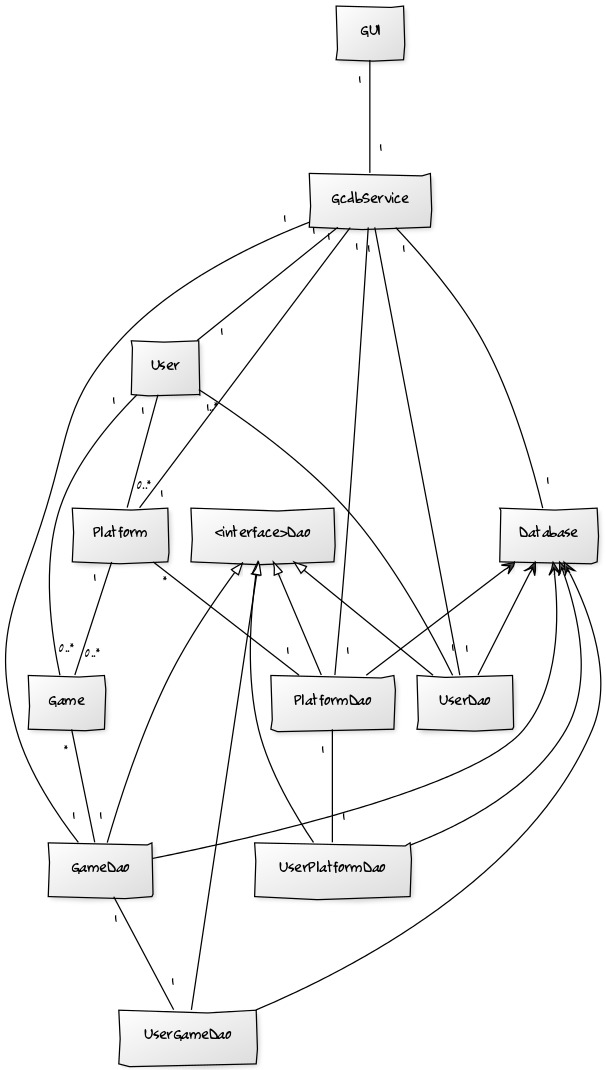
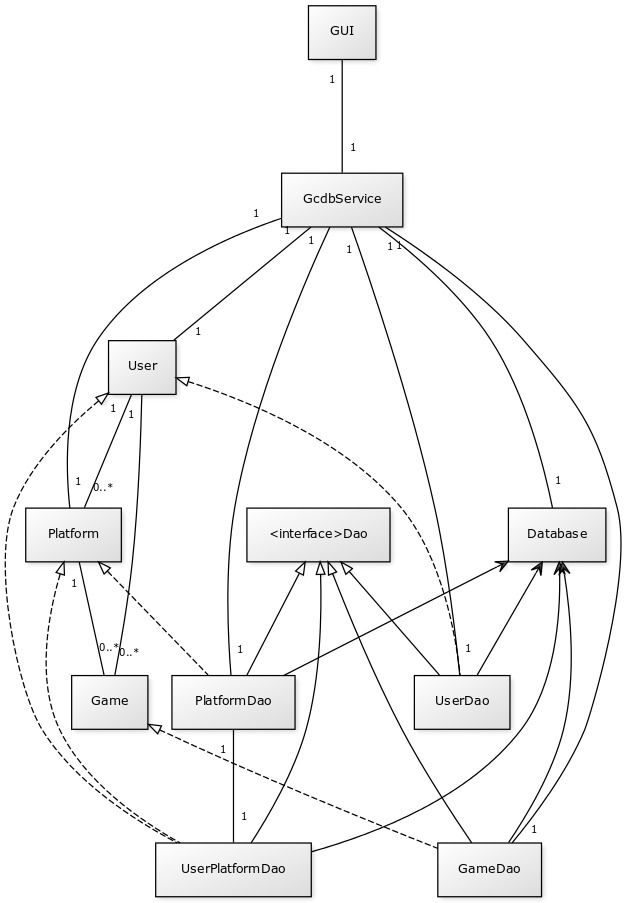
korjauksia ja parannuksia

diff --git a/dokumentointi/tuntikirjanpito.md b/dokumentointi/tuntikirjanpito.md
@@ -15,5 +15,5 @@ päivä | aika | mitä tein
 29.11 | 3    | Pelitoiminnallisuuden rakentaminen ja hionta. Logiikan parannukset.
 30.11 | 4    | Pelit listalle näkyviin. GcdbService-luokka. Vastuut GUI->GcdbService.
 01.12 | 2    | Dokumentoinnin päivitys. Pelinäkymän hahmotelma.
-02.12 | 3    | Pelin poistamismahdollisuus. GcdbServicen testit. JAR:n luominen. 
-YHT   | 36
+02.12 | 4    | Pelin poistamismahdollisuus. GcdbServicen testit. JAR:n luominen. Dokumentaation päivitys
+YHT   | 37
